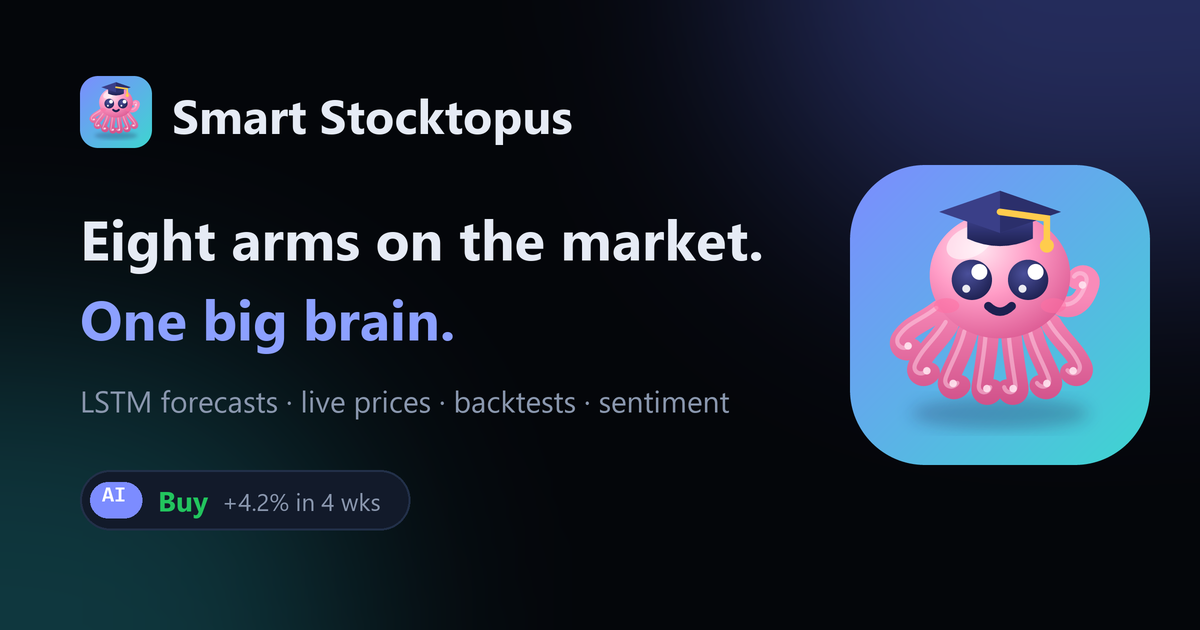
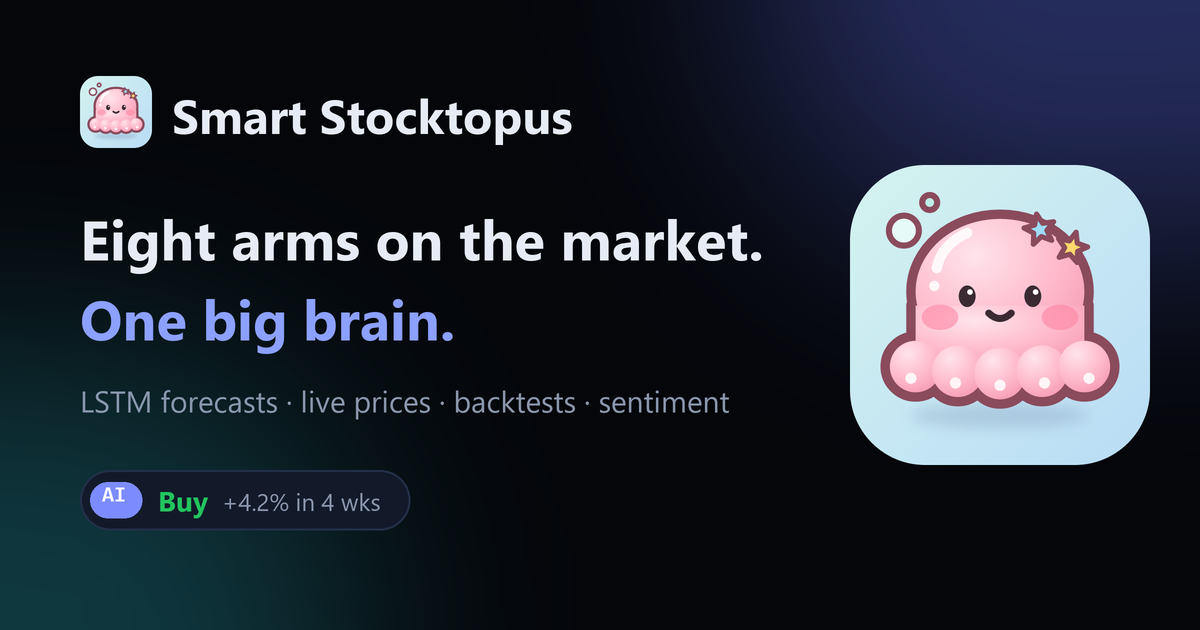
aesthetic changes

Changed region(s): [[0.7092, 0.2413, 0.9558, 0.754], [0.0617, 0.1206, 0.1542, 0.2413]]

diff --git a/src/webapp/templates/base.html b/src/webapp/templates/base.html
@@ -14,13 +14,13 @@
     <meta property="og:title" content="{{ share_title }}" />
     <meta property="og:description" content="{{ share_desc }}" />
     <meta property="og:url" content="{{ request.base_url }}" />
-    <meta property="og:image" content="{{ url_for('static', filename='og.png', _external=True) }}" />
+    <meta property="og:image" content="{{ url_for('static', filename='og.png', v=2, _external=True) }}" />
     <meta property="og:image:width" content="1200" />
     <meta property="og:image:height" content="630" />
     <meta name="twitter:card" content="summary_large_image" />
     <meta name="twitter:title" content="{{ share_title }}" />
     <meta name="twitter:description" content="{{ share_desc }}" />
-    <meta name="twitter:image" content="{{ url_for('static', filename='og.png', _external=True) }}" />
+    <meta name="twitter:image" content="{{ url_for('static', filename='og.png', v=2, _external=True) }}" />
     <meta name="theme-color" content="#0a0e17" />
     <link rel="icon" type="image/svg+xml" href="{{ url_for('static', filename='logo.svg') }}" />
     <link rel="preconnect" href="https://fonts.googleapis.com" />

diff --git a/tests/test_webapp.py b/tests/test_webapp.py
@@ -138,7 +138,7 @@ def test_portfolio_rejects_bad_holdings(client, holdings, message):
 
 def test_share_preview_tags(client):
     home = client.get("/").get_data(as_text=True)
-    assert 'property="og:image" content="http://localhost/static/og.png"' in home
+    assert 'property="og:image" content="http://localhost/static/og.png?v=2"' in home
     assert "eight arms on the market, one big brain" in home
     page = client.get("/stock/TEST").get_data(as_text=True)
     assert 'content="TEST: AI forecast, chart &amp; analysis"' in page
